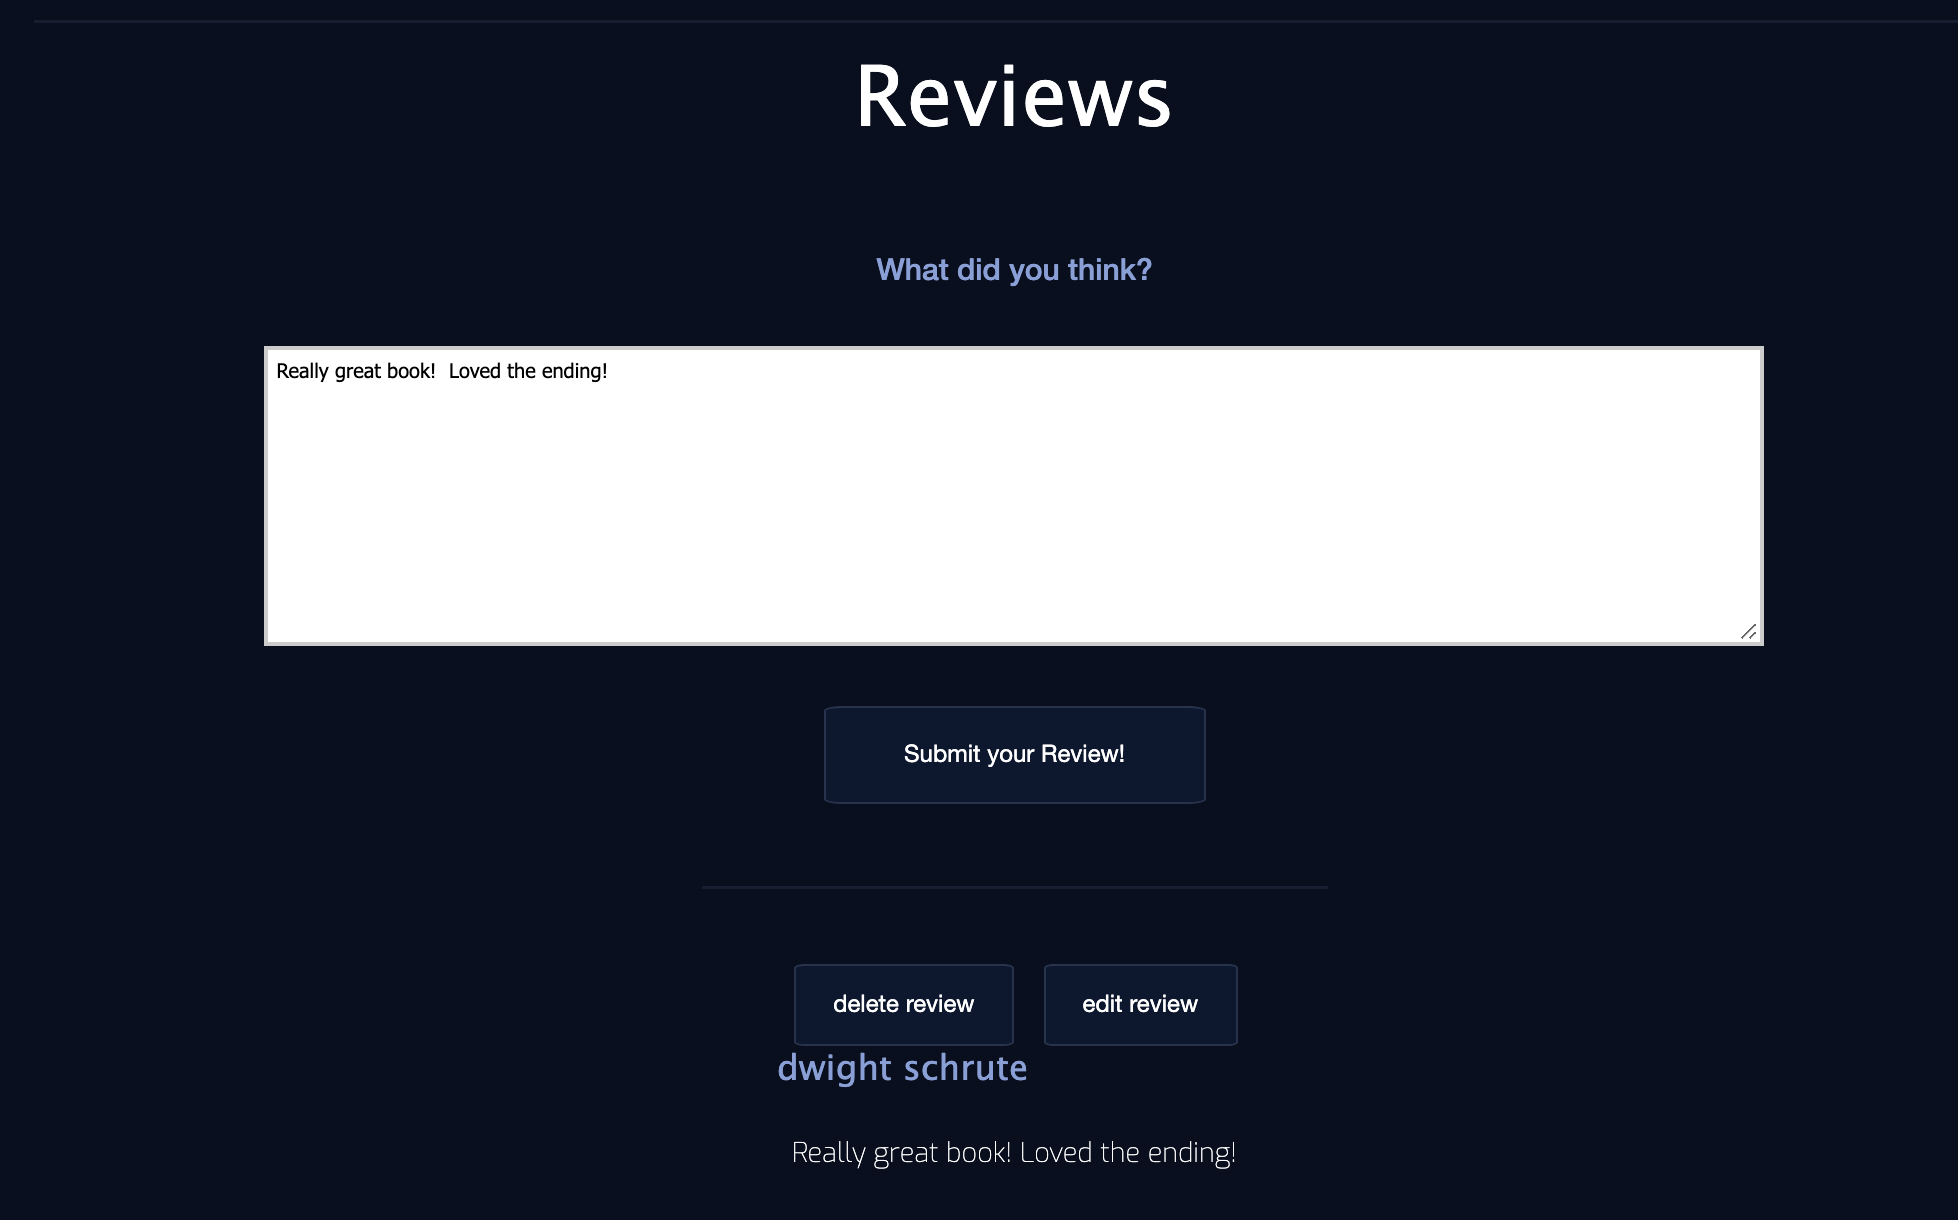
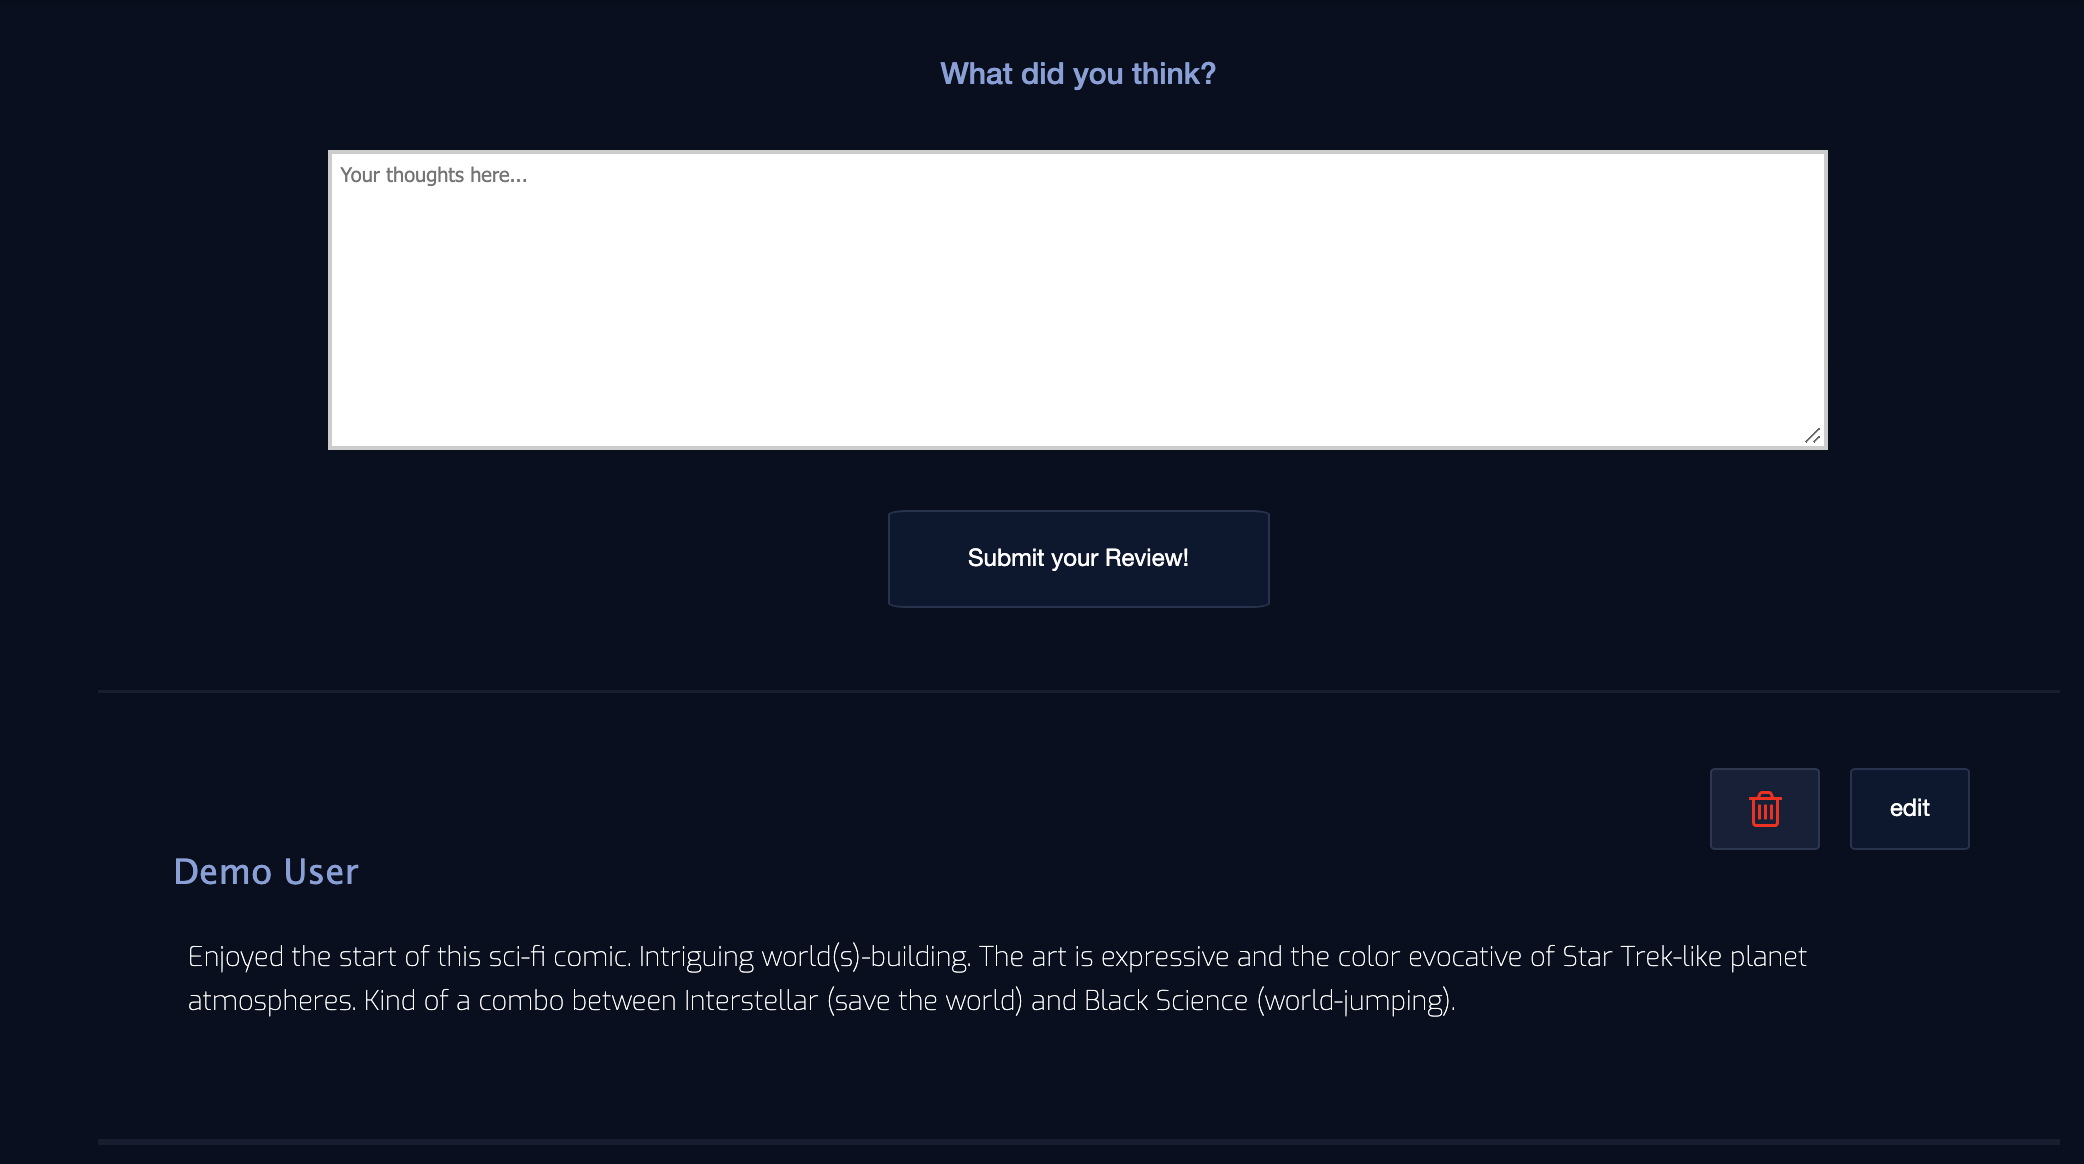
added gif

diff --git a/public/javascripts/reviews.js b/public/javascripts/reviews.js
@@ -30,8 +30,8 @@ btn.addEventListener("click", async (e) => {
   const newReview = document.createElement('div');
   newReview.classList.add('review')
   newReview.innerHTML = ` <div class="review__tools">
-                            <button class="reviewTool review--delete" id=rd${reviewId}>delete review </button>
-                            <button class="reviewTool review--edit" id="re${reviewId}">edit review</button>
+                            <button class="reviewTool review--delete" id=rd${reviewId}><i class="fa fa-trash-o" style="font-size:28px;color:red"></i></button>
+                            <button class="reviewTool review--edit" id="re${reviewId}">edit</button>
                           </div>
                           <div class="review__info">
                             <h2 class="review__info__name">${firstName} ${lastName}</h2> </div>

diff --git a/README.md b/README.md
@@ -9,8 +9,13 @@
 ---
 
 Comic-Collection is a clone of Goodreads but for comics. Users can view and search
+<<<<<<< HEAD
 for comics from our database by name, price, author, publisher or description. Signing up allows 
 users to create collections of comics, track their read status, and add or remove their reviews.
+=======
+for comics from our database by name, price, author, publisher or description. Signing up allows
+users to create collections of comics and track their read status and add our remove their reviews.
+>>>>>>> 357002672af2f534e6bf4999494c6ac6d619bc28
 
 
 <p>&nbsp;</p>
@@ -34,12 +39,11 @@ users to create collections of comics, track their read status, and add or remov
 
 ---
 
-- The project can be run locally through the command line with `npm start`
-- Is require to create, migrate and seed the database using the sequelize commands:
+- The database should be generated and seeded with the sequelize commands:
 - `npx dotenv sequelize-cli db:create`
 - `npx dotenv sequelize-cli db:migrate`
 - `npx dotenv sequelize-cli db:seed:all`
-
+- The project can be run locally through the command line with `npm start`
 <p>&nbsp;</p>
 
 ## Wiki Documentation
@@ -56,11 +60,9 @@ users to create collections of comics, track their read status, and add or remov
 
 ---
 
-#### Discussion of two features that show off the team's technical abilities
-
 
 ### AJAX for the reviews
-A key feature that shows our team's technical abilities is using AJAX on the reviews portion of our site.  A user 
+A key feature that shows our team's technical abilities is using AJAX on the reviews portion of our site.  A user
 is able to navigate to a comic and add a review for that comic.  Without refreshing, the review shows up on the page and the user then has the ability to edit and remove that review after having created it.  We accomplished this by using api routes. When the user clicks "submit review" a fetch call is made to an api which updates our database with the review and then sends back a JSON review object.  The JSON object is parsed and the information for the review is then added to the document as shown in the image below.
 
 
@@ -75,21 +77,19 @@ is able to navigate to a comic and add a review for that comic.  Without refresh
 
 - Creating the search bar logic querying for all the database information was definitely one of toughest implementations.
 - Using AJAX to create a dynamic and responsive UI for the Website was one of the challenges we accomplished on this project.
-
 <p>&nbsp;</p>
 
 ## Obstacles
 
 ---
 
-Discussion of both challenges faced and the way the team solved them
 
 ### Database Schema
-
 Since this was our first project, we had limited experience developing a full
 database schema from the ground up. As we moved through the project, there were
 times when we discovered features would be easier to implement with changes to
-our database schema.
+our database schema. We were able to work through this with some minor database
+updates and using eager loading with sequelize queries.
 
 <p>&nbsp;</p>
 
@@ -147,6 +147,12 @@ const updateCollections = async (comicId, route) => {
 }
 ```
 
+```javascript
+    
+```
+
+
+
 <p>&nbsp;</p>
 
 ## Future Improvements
@@ -165,4 +171,3 @@ are:
   selections.
 - Overall styling of the all the pages on the website.
 - Add more users features likes friends, followers, following, chat and notifications.
-
